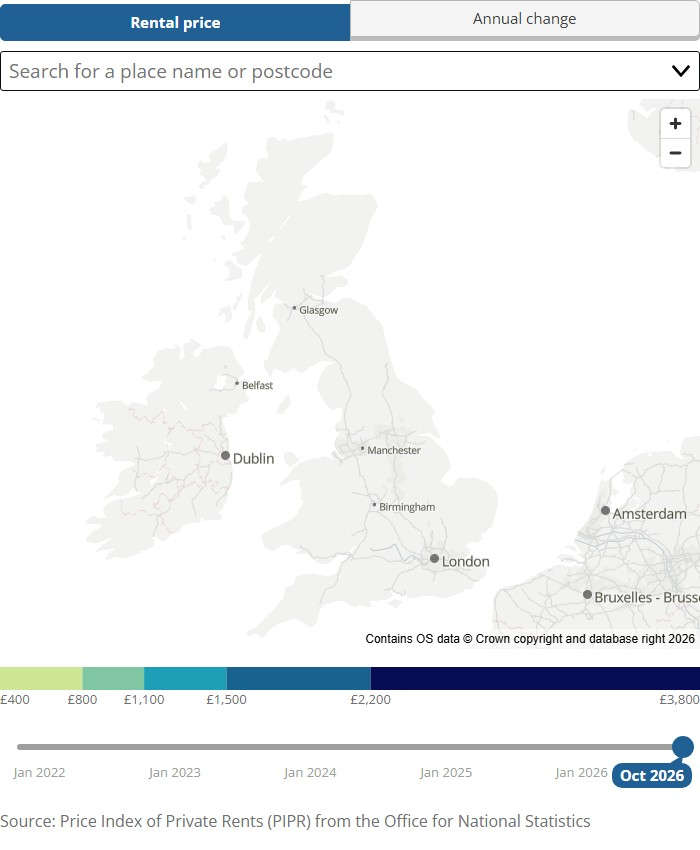
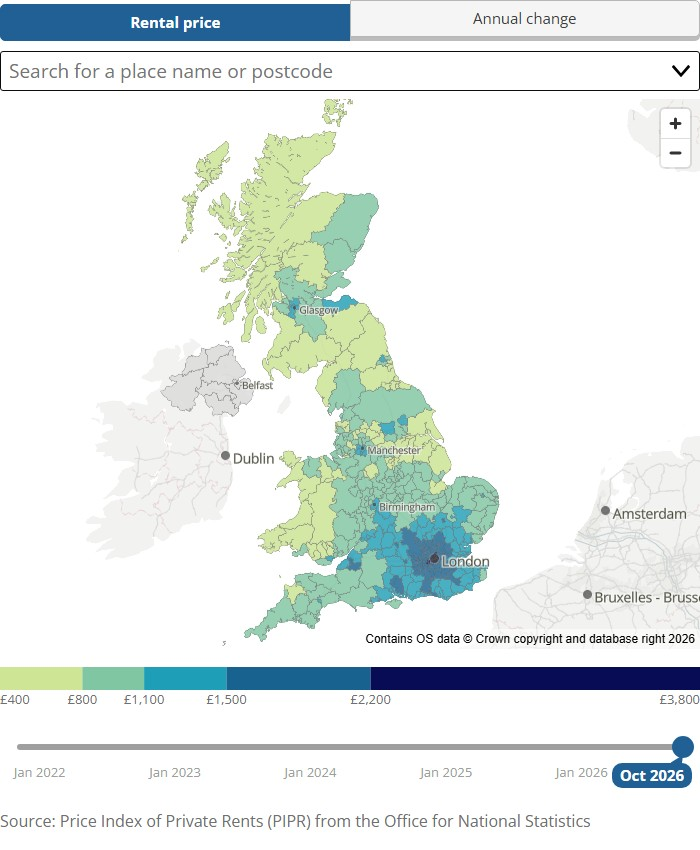
Screenshot update to wait for complete visualsation load

Changed region(s): [[0.24, 0.0918, 0.72, 0.7647]]

diff --git a/ons_screenshots.py b/ons_screenshots.py
@@ -19,6 +19,9 @@ TARGET_HEIGHT = 700
 MIN_WIDTH = 320
 MAX_WIDTH = 700
 TIMEOUT_MS = 30_000
+READINESS_TIMEOUT_MS = 90_000
+PIXEL_QUIET_SECONDS = 2
+MAP_QUIET_SECONDS = 10
 CAPTURE_TIMEOUT_SECONDS = 300
 
 
@@ -318,11 +321,70 @@ FIND_CHART = r"""() => {
                     || r.top < box.top - 1 || r.bottom > box.bottom + 1;
             })) return {error: 'Visualisation content overflows its container'};
     return {x: box.x + scrollX, y: box.y + scrollY, width: box.width, height: box.height,
-        map: !!element.querySelector('.maplibregl-canvas, .mapboxgl-canvas'),
+        map: !!element.querySelector(
+            '.maplibregl-canvas, .mapboxgl-canvas, .leaflet-container, .ol-viewport'),
         plots: surfaces.map(s => {
             const r = s.getBoundingClientRect();
             return {x:r.x + scrollX, y:r.y + scrollY, width:r.width, height:r.height};
         })};
+}"""
+
+
+# Module-scoped map instances are not available through window.map.
+TRACK_MAPS = r"""(() => {
+    if (globalThis.__onsScreenshotMaps) return;
+    const maps = globalThis.__onsScreenshotMaps = new Set();
+    const constructors = new WeakMap();
+    const wrap = library => library && new Proxy(library, {
+        get(target, key, receiver) {
+            const value = Reflect.get(target, key, receiver);
+            if (key !== 'Map' || typeof value !== 'function') return value;
+            if (!constructors.has(value)) constructors.set(value, new Proxy(value, {
+                construct(target, args, newTarget) {
+                    const instance = Reflect.construct(target, args, newTarget);
+                    maps.add(instance);
+                    if (typeof instance.on === 'function')
+                        instance.on('remove', () => maps.delete(instance));
+                    return instance;
+                }
+            }));
+            return constructors.get(value);
+        }
+    });
+    for (const name of ['maplibregl', 'mapboxgl']) {
+        let library = wrap(globalThis[name]);
+        Object.defineProperty(globalThis, name, {
+            configurable: true, enumerable: true,
+            get: () => library,
+            set: value => { library = wrap(value); }
+        });
+    }
+})()"""
+
+
+MAPS_READY = r"""() => {
+    const maps = [...(globalThis.__onsScreenshotMaps || []),
+        globalThis.map, globalThis.map1, globalThis.map2]
+        .filter(m => m && typeof m.loaded === 'function');
+    return maps.every(m => m.loaded()
+        && (typeof m.isStyleLoaded !== 'function' || m.isStyleLoaded())
+        && (typeof m.areTilesLoaded !== 'function' || m.areTilesLoaded())
+        && (typeof m.isMoving !== 'function' || !m.isMoving()));
+}"""
+
+
+CAPTURE_READY = r"""() => {
+    const visible = element => {
+        const box = element.getBoundingClientRect();
+        const style = getComputedStyle(element);
+        return box.width > 0 && box.height > 0
+            && style.display !== 'none' && style.visibility !== 'hidden';
+    };
+    return document.fonts.status === 'loaded'
+        && [...document.images].filter(visible).every(img => img.complete && img.naturalWidth > 0)
+        && ![...document.querySelectorAll('[aria-busy="true"], [role="progressbar"]')]
+            .some(visible)
+        && (""" + MAPS_READY + r""")();
 }"""
 
 
@@ -333,19 +395,15 @@ async def measure_chart(page, url, width):
         raise ChartCaptureError(f'HTTP {response.status}: {url}')
     if ons_url(page.url, keep_fragment=True) is None:
         raise ChartCaptureError(f'Non-ONS redirect rejected: {page.url}')
-    await page.wait_for_function("() => document.fonts.status === 'loaded'", timeout=TIMEOUT_MS)
+    await page.wait_for_function("() => document.fonts.status === 'loaded'",
+                                 timeout=READINESS_TIMEOUT_MS)
     await page.wait_for_function(
         f'() => ({FIND_CHART})().error !== "No supported rendered plotting container"',
-        timeout=TIMEOUT_MS)
-    await page.wait_for_load_state('networkidle', timeout=TIMEOUT_MS)
+        timeout=READINESS_TIMEOUT_MS)
+    await page.wait_for_load_state('networkidle', timeout=READINESS_TIMEOUT_MS)
     box = await page.evaluate(FIND_CHART)
     if box.get('map'):
-        await page.wait_for_function("""() => {
-            const maps = [globalThis.map, globalThis.map1, globalThis.map2]
-                .filter(m => m && typeof m.loaded === 'function');
-            return maps.every(m => m.loaded()
-                && (typeof m.areTilesLoaded !== 'function' || m.areTilesLoaded()));
-        }""", timeout=TIMEOUT_MS)
+        await page.wait_for_function(MAPS_READY, timeout=READINESS_TIMEOUT_MS)
     previous = None
     stable = 0
     for _ in range(20):
@@ -367,11 +425,59 @@ async def measure_chart(page, url, width):
     return Measurement(width, left, top, right - left, bottom - top)
 
 
+async def settled_image(page, final):
+    box = await page.evaluate(FIND_CHART)
+    quiet_seconds = MAP_QUIET_SECONDS if box.get('map') else PIXEL_QUIET_SECONDS
+    loop = asyncio.get_running_loop()
+    deadline = loop.time() + READINESS_TIMEOUT_MS / 1000
+    last_request = loop.time()
+    pending = set()
+
+    def requested(request):
+        nonlocal last_request
+        pending.add(request)
+        last_request = loop.time()
+
+    def finished(request):
+        nonlocal last_request
+        pending.discard(request)
+        last_request = loop.time()
+
+    page.on('request', requested)
+    page.on('requestfinished', finished)
+    page.on('requestfailed', finished)
+    previous = None
+    stable_since = loop.time()
+    try:
+        while loop.time() < deadline:
+            image = await page.screenshot(type='png', animations='disabled', full_page=True,
+                                         omit_background=False,
+                                         clip={'x': final.x, 'y': final.y,
+                                               'width': final.width, 'height': final.height},
+                                         timeout=TIMEOUT_MS)
+            ready = await page.evaluate(CAPTURE_READY)
+            now = loop.time()
+            if image != previous or pending or not ready:
+                stable_since = now
+            elif now - max(stable_since, last_request) >= quiet_seconds:
+                return image
+            previous = image
+            await asyncio.sleep(0.5)
+        raise ChartCaptureError(
+            f'Chart data, map tiles or pixels did not settle within '
+            f'{READINESS_TIMEOUT_MS / 1000:g} seconds')
+    finally:
+        page.remove_listener('request', requested)
+        page.remove_listener('requestfinished', finished)
+        page.remove_listener('requestfailed', finished)
+
+
 async def capture_chart(page, url):
     from PIL import Image, ImageStat
 
     errors = []
     page.on('pageerror', lambda error: errors.append(str(error)))
+    await page.add_init_script(TRACK_MAPS)
     warmed = False
 
     async def measure(width):
@@ -389,19 +495,7 @@ async def capture_chart(page, url):
     final = await measure(best.viewport_width)
     if abs(final.height - best.height) > 1 or final.width != best.width:
         raise ChartCaptureError('Chart dimensions changed before capture')
-    previous = None
-    for _ in range(10):
-        image = await page.screenshot(type='png', animations='disabled', full_page=True,
-                                     omit_background=False,
-                                     clip={'x': final.x, 'y': final.y,
-                                           'width': final.width, 'height': final.height},
-                                     timeout=TIMEOUT_MS)
-        if image == previous:
-            break
-        previous = image
-        await asyncio.sleep(0.2)
-    else:
-        raise ChartCaptureError('Chart pixels did not stabilise')
+    image = await settled_image(page, final)
     bounds = await page.evaluate(FIND_CHART)
     if bounds.get('error') or any(abs(bounds[key] - getattr(final, key)) > 1
                                   for key in ('x', 'y', 'width', 'height')):

diff --git a/test_ons_screenshots.py b/test_ons_screenshots.py
@@ -67,6 +67,32 @@ def chart_html(height='700', width='innerWidth'):
         </script>"""
 
 
+def scoped_map_html(delay):
+    return f"""<!doctype html><style>body{{margin:0}}canvas{{display:block}}</style>
+        <div id="graphic"><canvas class="maplibregl-canvas"
+            width="700" height="700"></canvas></div>
+        <script>
+        window.maplibregl = {{Map: class {{
+            constructor() {{
+                this.ready = false;
+                const context = document.querySelector('canvas').getContext('2d');
+                context.fillStyle = 'steelblue';
+                context.fillRect(0, 0, 700, 700);
+                context.fillStyle = 'grey';
+                context.fillRect(500, 500, 100, 100);
+                setTimeout(() => {{
+                    context.fillStyle = 'green';
+                    context.fillRect(50, 50, 400, 400);
+                    this.ready = true;
+                }}, {delay});
+            }}
+            loaded() {{ return this.ready; }}
+            areTilesLoaded() {{ return this.ready; }}
+        }}}};
+        </script>
+        <script type="module">const state = {{map: new maplibregl.Map()}};</script>"""
+
+
 class SelectionTests(unittest.TestCase):
     def setUp(self):
         self.temporary = tempfile.TemporaryDirectory()
@@ -336,6 +362,47 @@ class BrowserTests(unittest.IsolatedAsyncioTestCase):
         self.assertEqual(await self.page.locator('button').evaluate(
             '(element) => getComputedStyle(element).visibility'), 'visible')
 
+    async def test_module_scoped_map_waits_for_data_not_just_basemap_pixels(self):
+        await self.route(scoped_map_html(1800))
+        with patch('ons_screenshots.choose_size',
+                   AsyncMock(return_value=Measurement(700, 0, 0, 700, 700))):
+            image, _ = await capture_chart(self.page, URL)
+        with Image.open(BytesIO(image)) as decoded:
+            red, green, blue = decoded.getpixel((100, 100))
+            self.assertLess(red, 30)
+            self.assertGreater(green, 100)
+            self.assertLess(blue, 30)
+        self.assertTrue(await self.page.evaluate('globalThis.map === undefined'))
+
+    async def test_delayed_data_request_resets_pixel_and_network_quiet_period(self):
+        html = chart_html('640').replace('</script>', """
+            setTimeout(async () => {
+                await fetch('./chart-data.json');
+                document.querySelector('#graphic rect:nth-child(2)')
+                    .setAttribute('fill', 'green');
+            }, 1200);
+            </script>""")
+        await self.route(html)
+
+        async def data(route):
+            await asyncio.sleep(2.5)
+            await route.fulfill(content_type='application/json', body='{}')
+
+        await self.page.route('**/chart-data.json', data)
+        with patch('ons_screenshots.choose_size',
+                   AsyncMock(return_value=Measurement(700, 0, 0, 700, 700))):
+            image, _ = await capture_chart(self.page, URL)
+        with Image.open(BytesIO(image)) as decoded:
+            self.assertLess(decoded.getpixel((100, 100))[2], 30)
+
+    async def test_unready_scoped_map_times_out_instead_of_saving_basemap(self):
+        await self.route(scoped_map_html(60_000))
+        with patch('ons_screenshots.READINESS_TIMEOUT_MS', 1000):
+            with patch('ons_screenshots.choose_size',
+                       AsyncMock(return_value=Measurement(700, 0, 0, 700, 700))):
+                with self.assertRaises(PlaywrightTimeoutError):
+                    await capture_chart(self.page, URL)
+
     async def test_wrapper_includes_multiple_charts_controls_and_notes(self):
         await self.route("""<style>body{margin:0}svg{display:block}</style>
             <div id="visualisation"><div id="legend" style="height:30px">Legend</div>
@@ -404,7 +471,7 @@ class BrowserTests(unittest.IsolatedAsyncioTestCase):
             self.assertGreater(decoded.getpixel((100, 1150))[2], 100)
 
     async def test_overflow_and_failed_render_are_explicit(self):
-        with patch('ons_screenshots.TIMEOUT_MS', 1000):
+        with patch('ons_screenshots.READINESS_TIMEOUT_MS', 1000):
             for html in (
                     chart_html(width='800'),
                     '<div id="graphic"></div>'):

diff --git a/PIPELINE.md b/PIPELINE.md
@@ -168,6 +168,13 @@ Measure and validate the final JPEG, recording actual dimensions and whether
 the target was reached. A container unable to reach 700px height is not a failure.
 Measure the whole captured container, not only the SVG/canvas. Check blankness
 using the plot surfaces so non-empty legends/source cannot mask a blank chart.
+Track MapLibre/Mapbox constructors before navigation to observe renderer/style/tile
+readiness even when instances are held in module-local state. Before saving, wait
+for visible images and loading indicators, and require unchanged pixels with no
+pending/new network requests for two seconds (ten seconds for maps). New activity
+resets the quiet period. Readiness waits are bounded at 90 seconds and the overall
+chart timeout remains 300 seconds; unready charts fail without replacing old images.
+Previously successful partial captures require an explicit refresh mode.
 
 The index is keyed by normalised absolute visualisation URL, retaining query
 strings and fragments. Filenames normally use `dvcXXXX-figXX.jpg` in lowercase.
@@ -437,7 +444,7 @@ coordination to avoid concurrent writers.
   writes and can fail with an already-advanced successful discovery checkpoint.
 - Screenshot container support is deliberately conservative, not universal
   coverage of all legacy templates. Maps wait for network/layout/pixel stability
-  and globally exposed renderer ready state when available; this is not proof
+  and tracked or globally exposed renderer ready state when available; this is not proof
   that every possible interactive state or data layer has been captured.
 - JPG history grows the Git repository; unused images are not pruned or archived
   separately. Coordinate manual runs to avoid competing writers.

diff --git a/README.md b/README.md
@@ -110,10 +110,19 @@ is used, preferring wider layouts on a tie. The height target includes legends,
 controls and source/notes, not only the plotted area. Some charts get shorter when narrowed
 and cannot reach the target. Nothing is stretched, scaled or cropped to force it;
 JPG width never exceeds 700px. Charts reload at each trial width because some
-standalone ONS embeds do not redraw on viewport resize. Fonts, layout, pixels and
-available map-ready state are checked before capture.
+standalone ONS embeds do not redraw on viewport resize. Fonts, layout, visible images
+and loading indicators are checked before capture. MapLibre/Mapbox constructors
+are tracked before page scripts run, so module-scoped maps also wait for their
+renderer, style and tiles to finish loading.
+Before saving, require unchanged pixels and no pending/new network requests for
+**2 seconds**, or **10 seconds for maps**. Further requests or rendering changes
+restart that quiet period, allowing delayed data layers to finish. Readiness waits
+allow up to **90 seconds**; the overall per-chart limit remains **300 seconds**.
+Charts that never settle are recorded as failures, not successful partial images.
 The first layout is reloaded with warm fonts so SVG legend dimensions do not
 depend on fallback-font measurements from a cold navigation.
+Existing successful screenshots are not automatically refreshed by this change;
+use `recent`, `all`, `datestart` or `url` to replace previously incomplete captures.
 
 `screenshots/index.json` has `version: 1` and a `charts` object keyed by absolute
 visualisation URL. Each entry contains:
